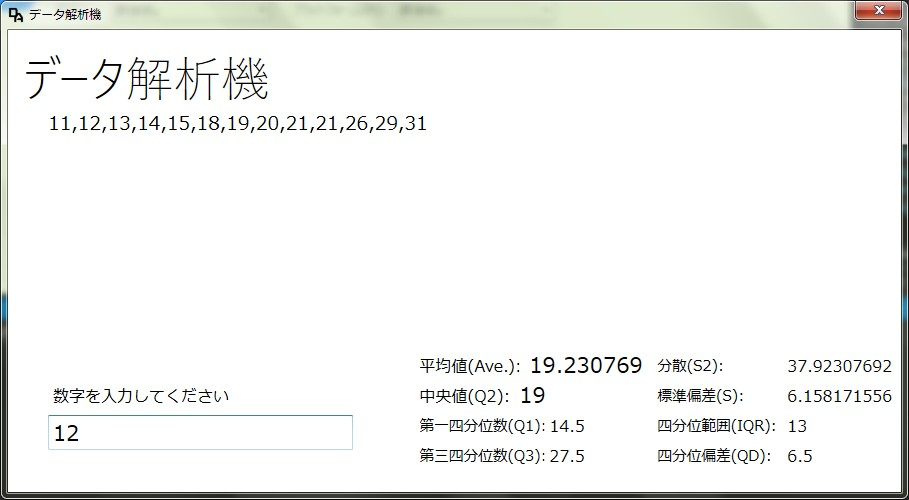
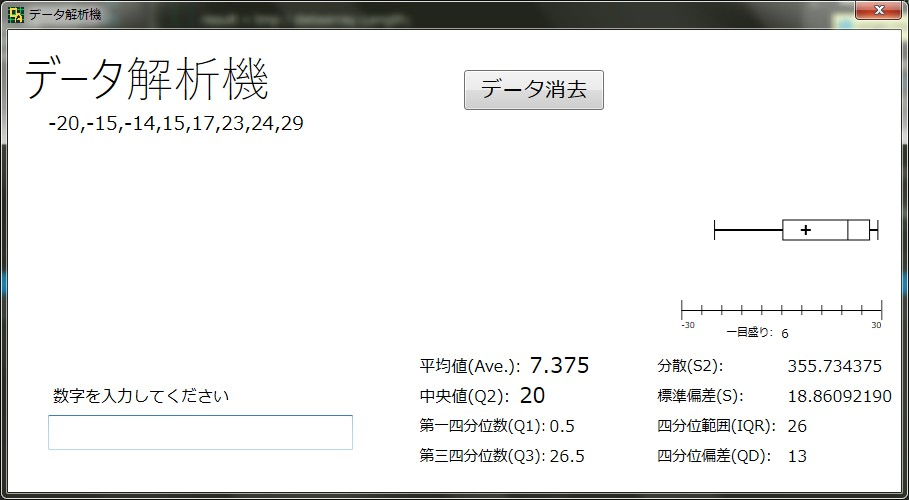
[modify]README書き換え/画像更新

diff --git a/README.md b/README.md
@@ -11,7 +11,8 @@ C#の演習がてら作ったもの。
 + 分散
 + 標準偏差  
 等の計算  
-入力したデータを自動ソートしてくれもする。  
+入力したデータを自動ソートしてくれもする。
+また、箱ひげ図も表示してくれる  
 
 ##外観
 ![DataAnalysiser](DataAnalysiser/Resources/DA.jpg)
@@ -19,4 +20,4 @@ C#の演習がてら作ったもの。
 MIT Licence
 
 ##Download
-https://github.com/Happa8/DataAnalysiser/releases
+https://github.com/Happa8/DataAnalysiser/releases/latest
